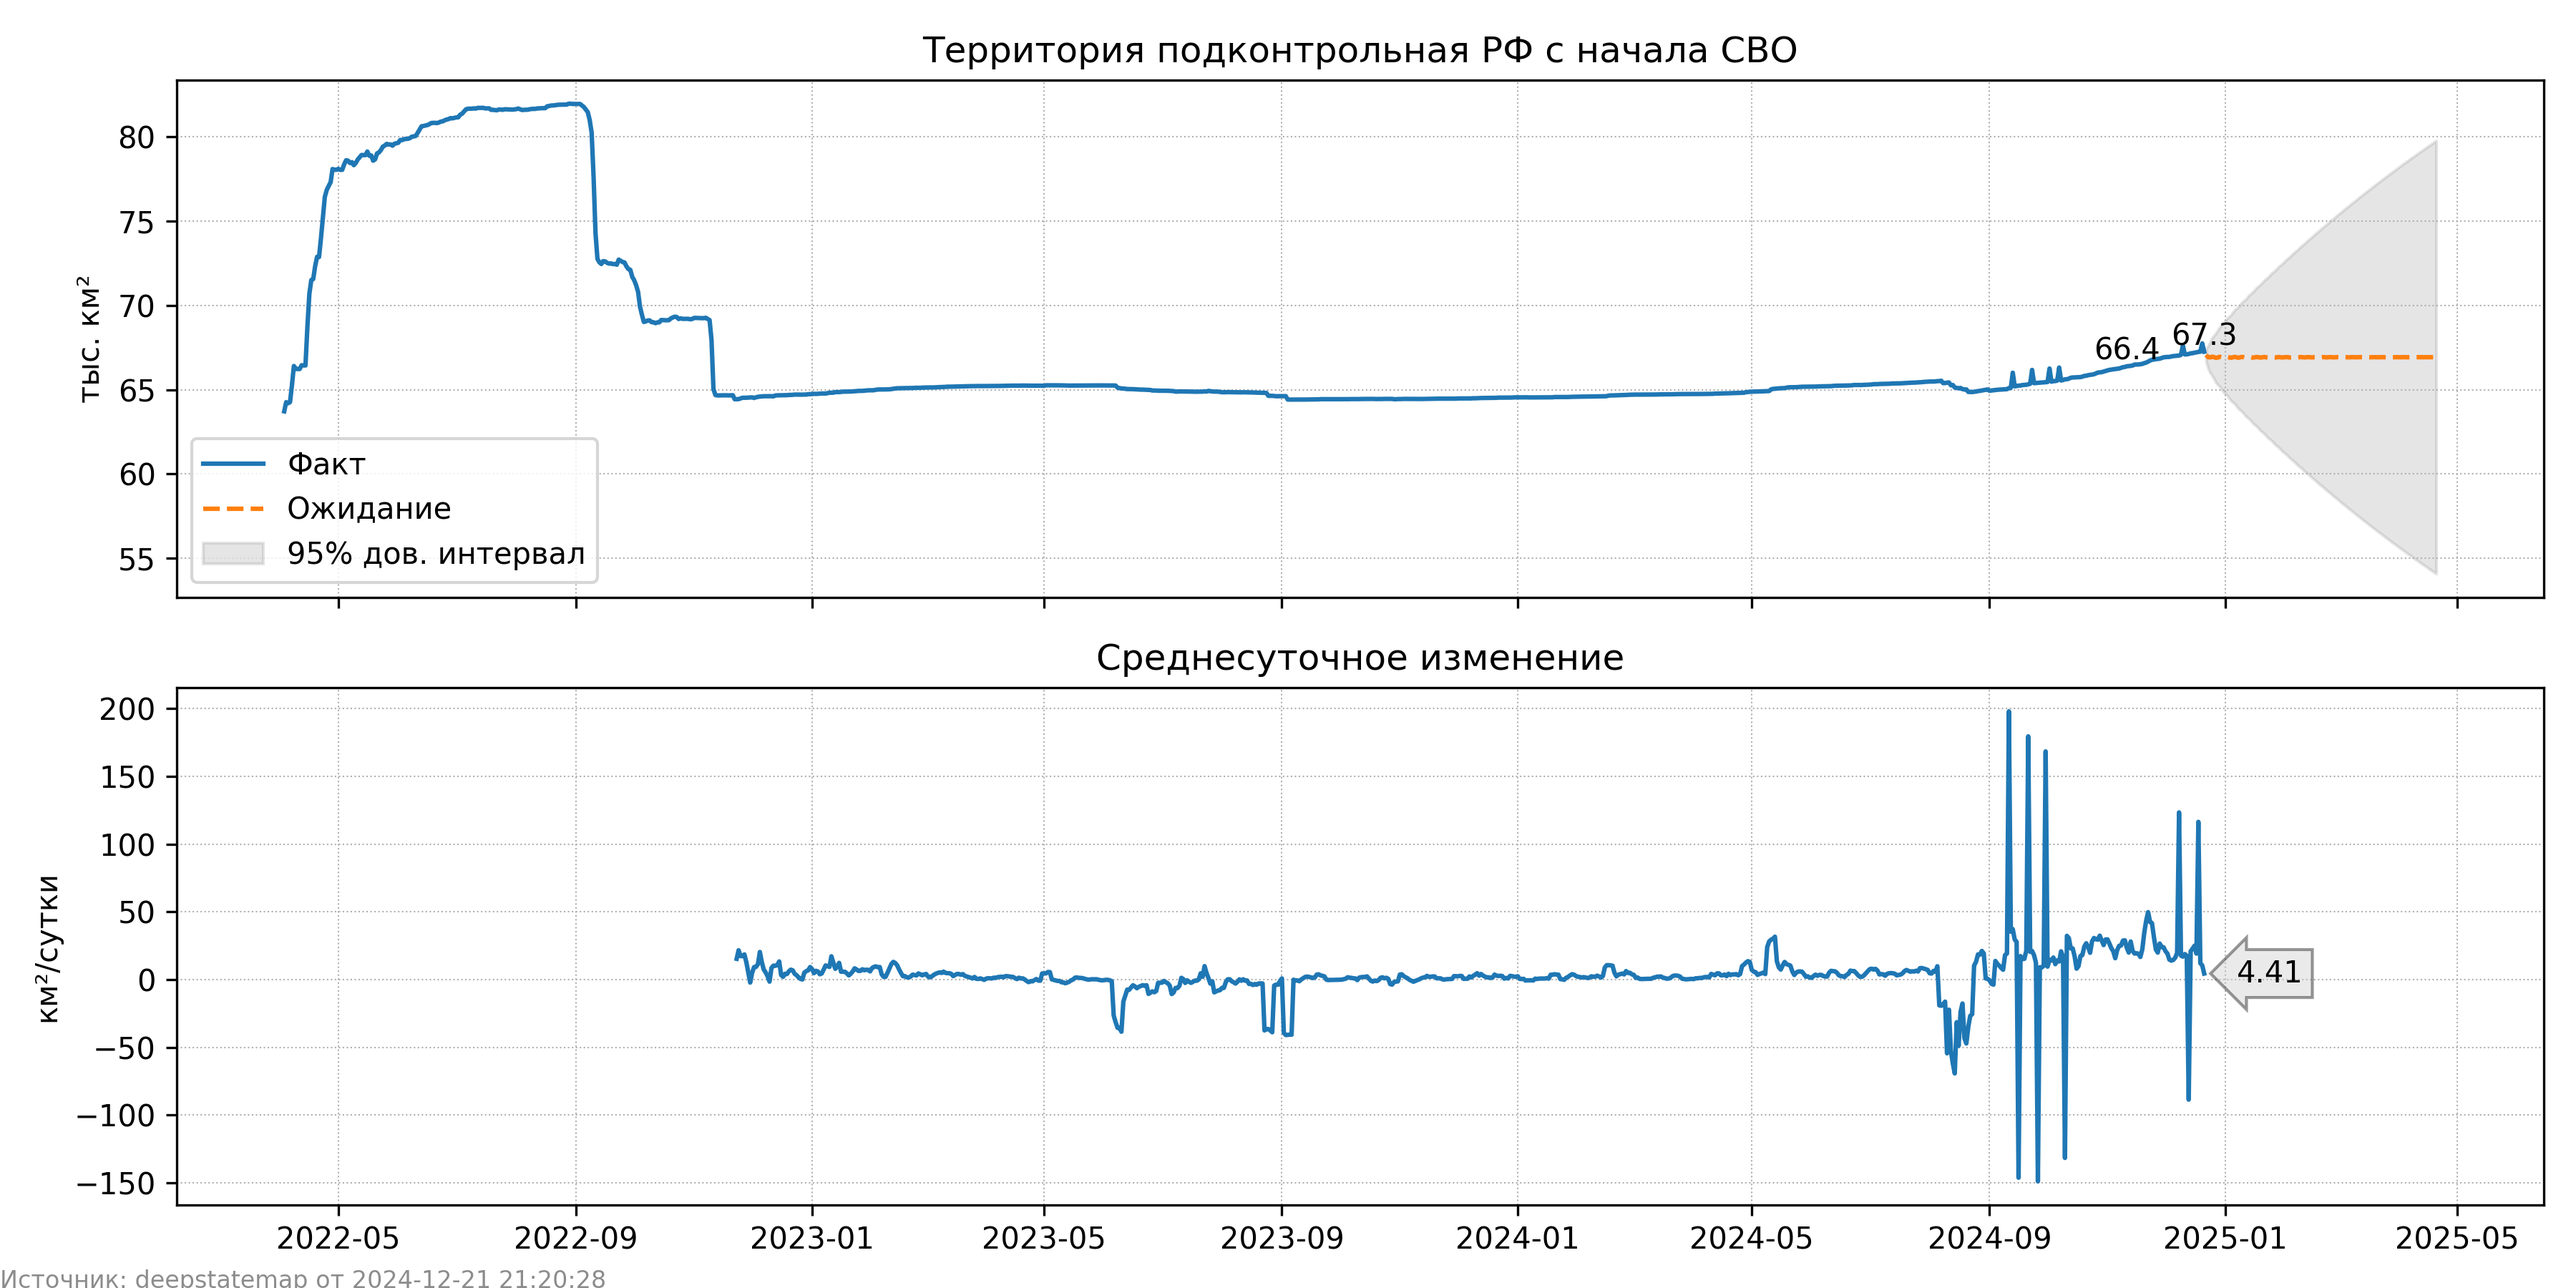
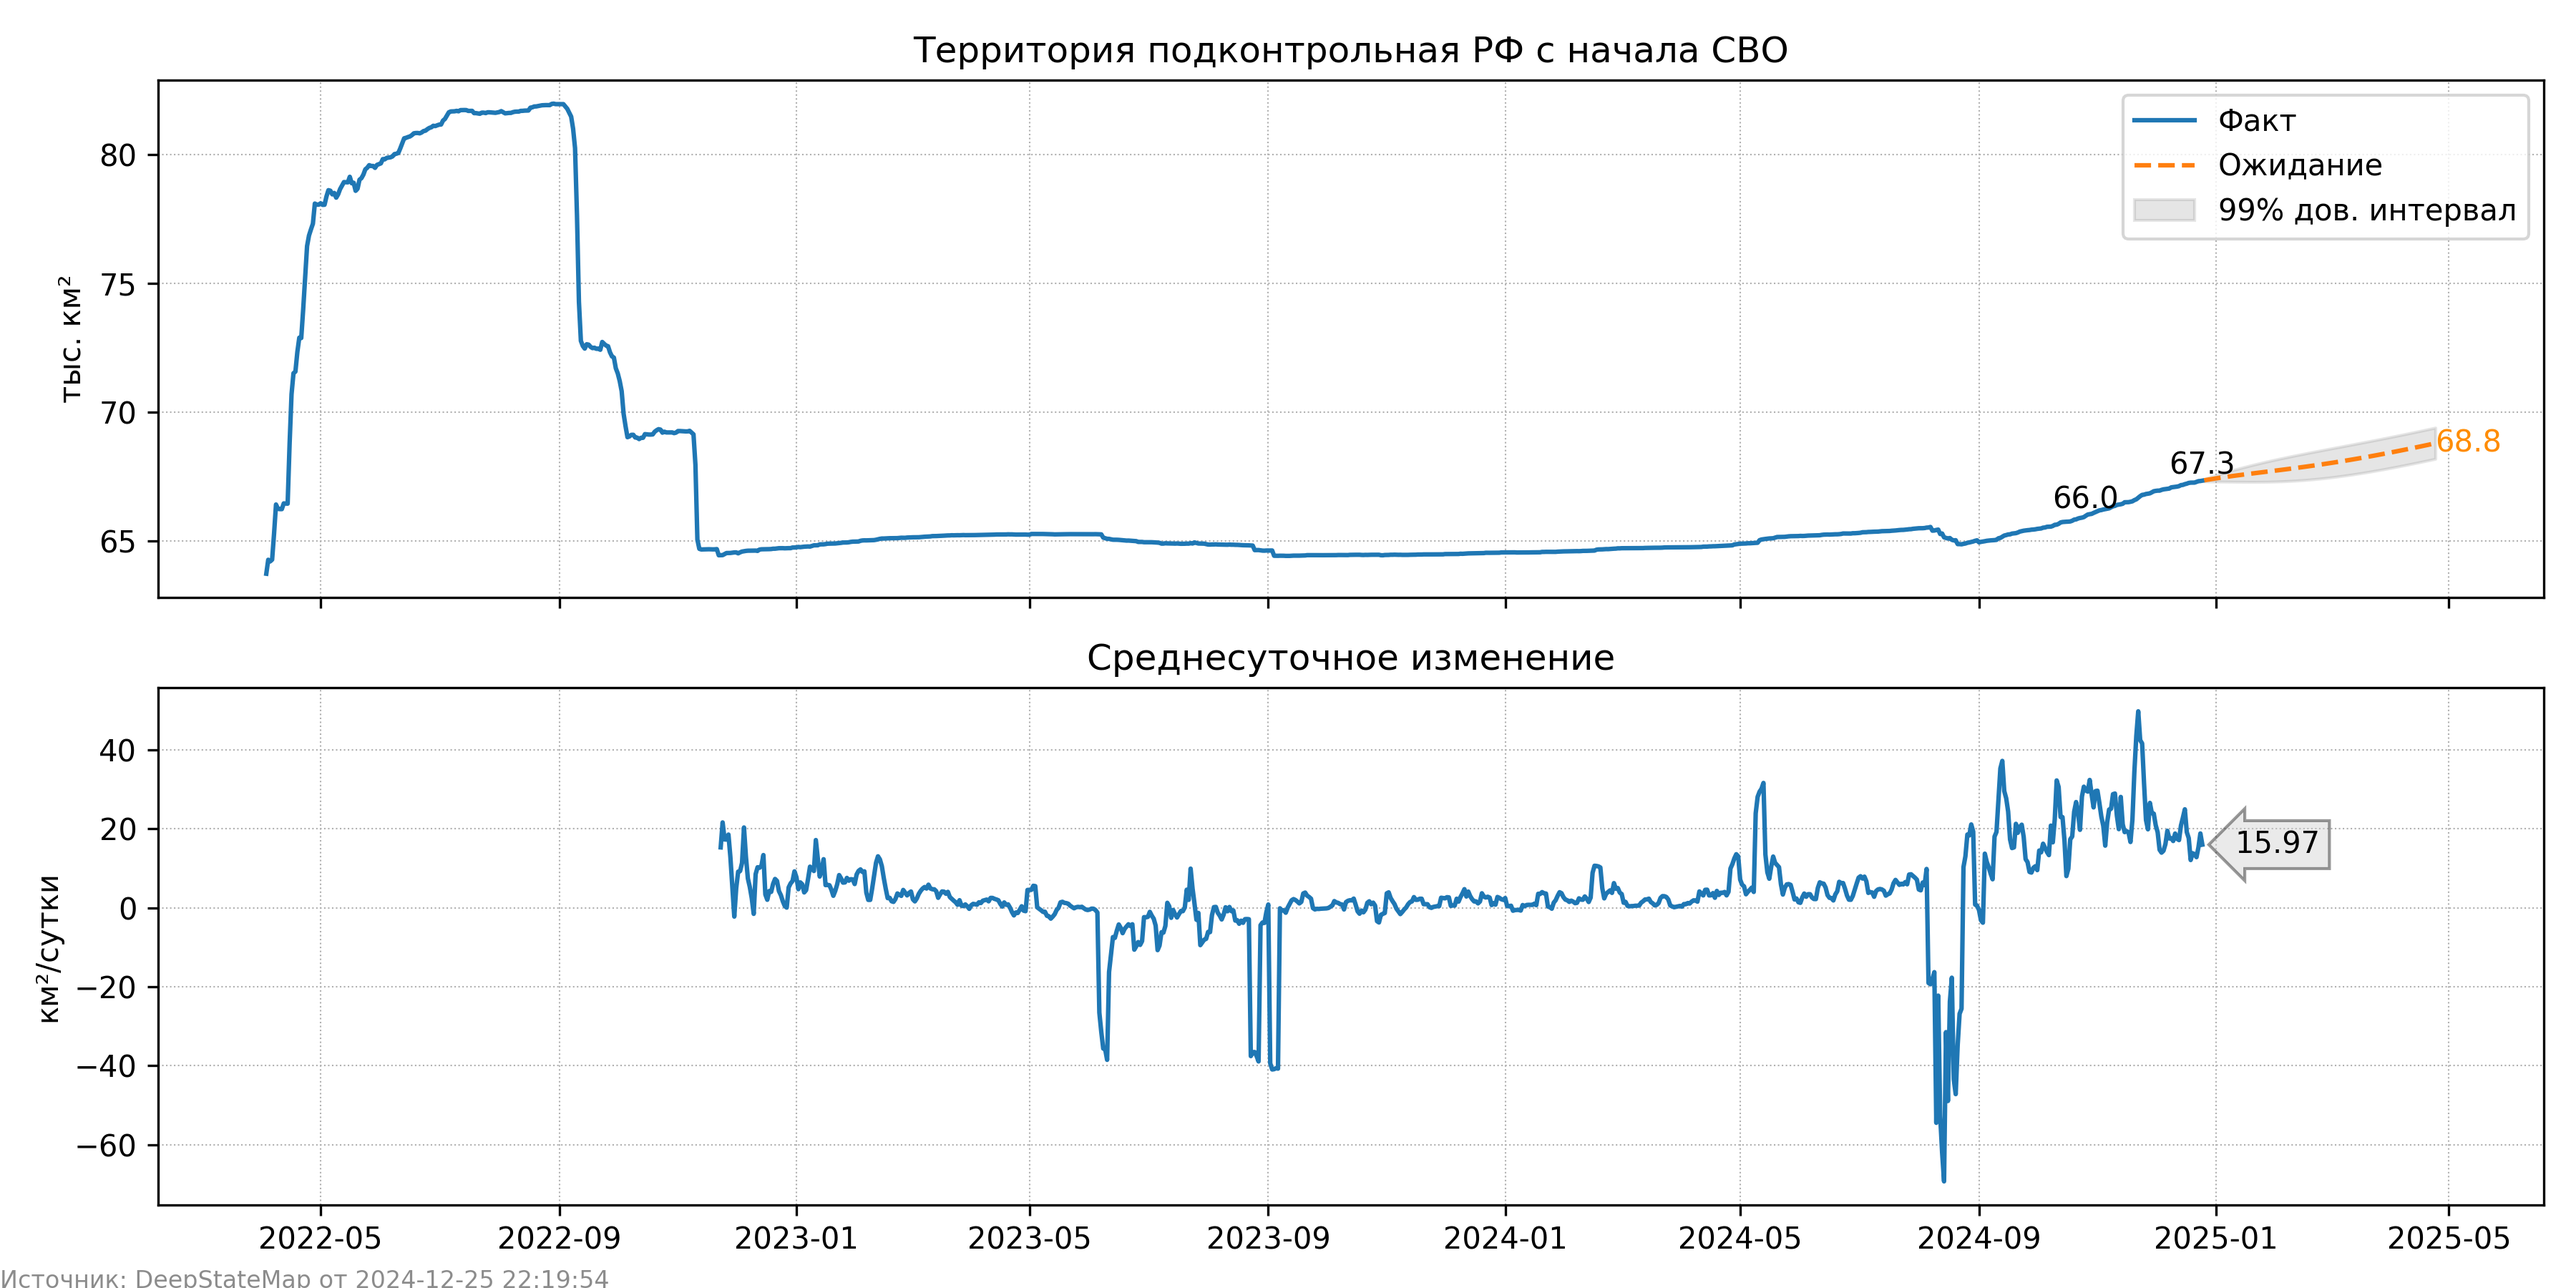
fix bug and fcst model

diff --git a/draw.py b/draw.py
@@ -3,12 +3,25 @@ import sys
 from pathlib import Path
 
 import matplotlib.pyplot as plt
+import numpy as np
 import pandas as pd
 import seaborn as sns
 from statsmodels.tsa.arima.model import ARIMA
+from statsmodels.tsa.tsatools import add_trend
 
 
-def main():
+def append_trend(X: pd.DataFrame, date, trend_name: str) -> pd.DataFrame:
+    if X.index.min() <= date <= X.index.max():
+        X[trend_name] = 0
+        X.loc[date:, trend_name] = np.arange(len(X.loc[date:, trend_name]))
+        return X
+    else:
+        raise ValueError(
+            f"Date {date} is out of range [{X.index.min()}, {X.index.max()}]"
+        )
+
+
+def main() -> None:
     df = pd.read_csv(
         Path("data/area_history.csv"),
         index_col="time_index",
@@ -21,13 +34,14 @@ def main():
         },
     )
 
-    area_dinamic = (
+    area_dynamic = (
         df.dropna()
         .groupby([pd.Grouper(freq="D"), "area_type"])[["area", "percent"]]
         .mean()
-        .reset_index()
-        .set_index("time_index")
     )
+
+    area_dynamic.reset_index(inplace=True)
+    area_dynamic.set_index("time_index", inplace=True)
 
     last_date = df.index.max().strftime("%Y-%m-%d %X")
 
@@ -35,34 +49,54 @@ def main():
         df[(df["area_type"] == "other_territories") & (df["hash"] == "#01579b")]
         .groupby(pd.Grouper(freq="D"))[["area", "percent"]]
         .mean()
-        .fillna(0)
+    )
+    occupied_by_ua.interpolate(inplace=True)
+
+    occupied_by_ru = area_dynamic[
+        area_dynamic["area_type"] == "occupied_after_24_02_2022"
+    ]["area"]  # ["percent"]
+    occupied_by_ru = pd.DataFrame(
+        index=pd.date_range(
+            start=occupied_by_ru.index.min(), end=occupied_by_ru.index.max(), freq="D"
+        )
+    ).join(occupied_by_ru)
+    occupied_by_ru.interpolate(inplace=True)
+    occupied_by_ru["prefix"] = 0
+    occupied_by_ru.loc[:"2022-11-11", "prefix"] = 1
+
+    occupied_by_ru["area"] = occupied_by_ru["area"].subtract(
+        occupied_by_ua["area"], fill_value=0
     )
 
-    aa = area_dinamic[area_dinamic["area_type"] == "occupied_after_24_02_2022"][
-        "area"
-    ]  # ["percent"]
-    aa = pd.DataFrame(
-        index=pd.date_range(start=aa.index.min(), end=aa.index.max(), freq="D")
-    ).join(aa)
-    aa.interpolate(inplace=True)
-    aa["prefix"] = 0
-    aa.loc[:"2022-11-11", "prefix"] = 1
+    fh = 120  # int(365.25 * 5)
+    y = occupied_by_ru.loc["2022-11-12":, "area"]
+    X = pd.DataFrame(
+        index=pd.date_range(
+            y.index.min(), y.index.max() + pd.DateOffset(days=fh), freq="D"
+        )
+    )
+    X = add_trend(X, "ct")
 
-    aa["area"] = aa["area"].subtract(occupied_by_ua["area"], fill_value=0)
-
+    # Добавляем моментум
+    X = append_trend(X, y.index.max() - pd.DateOffset(days=365), "momentum_y")
+    X = append_trend(X, y.index.max() - pd.DateOffset(days=31), "momentum_m")
     best_model = None
-    for p in range(6):
-        for q in range(6):
-            mod = ARIMA(aa["area"], order=(p, 1, q)).fit()
-            if best_model is None or best_model.aic > mod.aic:
-                best_model = mod
+    bound_factor = 0.995
+    pq = [(p, q) for p in range(6) for q in range(6)]
+    pq.sort(key=lambda x: x[0] + x[1])
+    for p, q in pq:
+        mod = ARIMA(y, exog=X.loc[: y.index.max()], order=(p, 0, q), trend="n").fit()
+        if best_model is None or (best_model.aic * bound_factor) > mod.aic:
+            best_model = mod
 
     print(best_model.summary())
-
-    fh = 120  # int(365.25 * 5)
-    fcst = best_model.get_forecast(fh, alpha=0.05).summary_frame()
+    fcst = best_model.get_forecast(
+        fh, alpha=0.01, exog=X.loc[y.index.max() + pd.DateOffset(days=1) :]
+    ).summary_frame()
     fcst.index = pd.date_range(
-        start=aa.index.max() + pd.DateOffset(days=1), periods=fcst.shape[0], freq="D"
+        start=y.index.max() + pd.DateOffset(days=1),
+        periods=fcst.shape[0],
+        freq="D",
     )
 
     svo_end_alpha = 99.95
@@ -75,13 +109,15 @@ def main():
     fcst = fcst[:end_svo]
     fh = 90
 
-    offset = 40
-    max_idx = aa.iloc[-365 - offset : -offset]["area"].idxmax()
-    max_val = round(aa.iloc[-365 - offset : -offset]["area"].max() / 1000, 1)
+    offset = 60
+    max_idx = occupied_by_ru.iloc[-365 - offset : -offset]["area"].idxmax()
+    max_val = round(
+        occupied_by_ru.iloc[-365 - offset : -offset]["area"].max() / 1000, 1
+    )
 
     fig, axs = plt.subplots(2, 1, sharex=True, figsize=(12, 6))
     ax = axs[0]
-    sns.lineplot(aa["area"] / 1000, ax=ax, label="Факт")
+    sns.lineplot(occupied_by_ru["area"] / 1000, ax=ax, label="Факт")
     sns.lineplot(fcst["mean"] / 1000, ls="--", ax=ax, label="Ожидание")
     fill_95p = ax.fill_between(
         fcst.index,
@@ -90,7 +126,7 @@ def main():
         alpha=0.2,
         color="grey",
     )
-    fill_95p.set_label("95% дов. интервал")
+    fill_95p.set_label("99% дов. интервал")
     ax.legend()
     ax.set(
         xlabel=None,
@@ -101,11 +137,20 @@ def main():
     ax.text(max_idx, max_val, f"{max_val:.1f}", ha="center", va="bottom")
 
     ax.text(
-        aa["area"].index.max(),
-        aa["area"].iloc[-1] / 1000,
-        f'{aa['area'].iloc[-1]/1000:.1f}',
+        occupied_by_ru["area"].index.max(),
+        occupied_by_ru["area"].iloc[-1] / 1000,
+        f'{occupied_by_ru['area'].iloc[-1]/1000:.1f}',
         ha="center",
         va="bottom",
+    )
+
+    ax.text(
+        fcst.index.max(),
+        fcst["mean"].iloc[-1] / 1000,
+        f"{fcst['mean'].iloc[-1]/1000:.1f}",
+        ha="left",
+        va="center",
+        color="darkorange",
     )
 
     ax = axs[1]
@@ -115,7 +160,9 @@ def main():
         title="Среднесуточное изменение",
     )
     day_din_area = (
-        aa.diff()["2022-11-23":].rolling(5, center=True, min_periods=3).mean()
+        occupied_by_ru.diff()["2022-11-23":]
+        .rolling(5, center=True, min_periods=3)
+        .mean()
     )
     sns.lineplot(
         day_din_area["area"],
@@ -133,13 +180,15 @@ def main():
         va="center",
         ha="left",
     )
+
     for ax in axs:
         ax.grid(ls=":", lw=0.5)
+
     fig.tight_layout()
     fig.text(
         0,
         0,
-        f"Источник: deepstatemap от {last_date}",
+        f"Источник: DeepStateMap от {last_date}",
         fontdict={"size": 8},
         alpha=0.45,
     )
